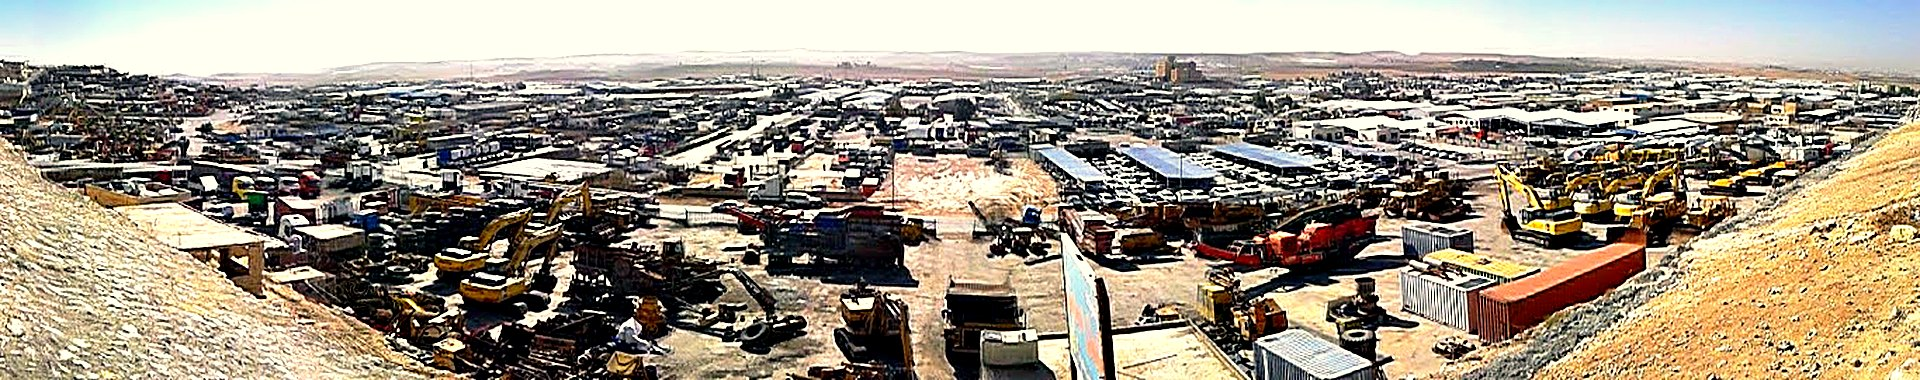
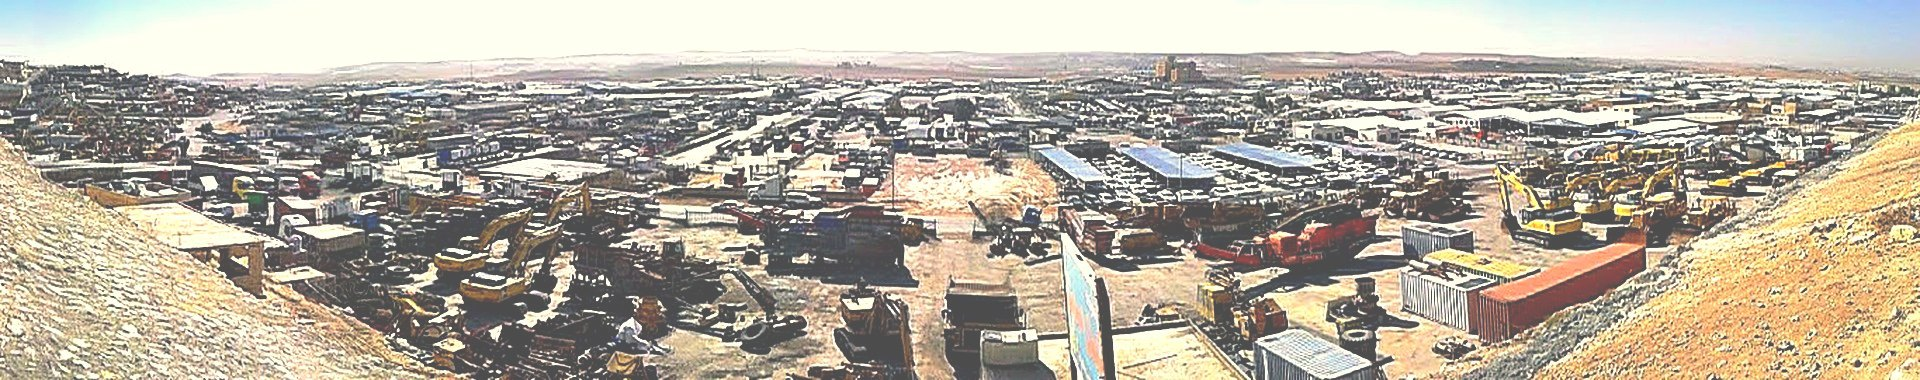
v45: shadow-lifted vivid hero photo + text-band overlay (bright cheerful, 7.8:1 title contrast)

diff --git a/public/css/styles.css b/public/css/styles.css
@@ -58,15 +58,17 @@ input,select,textarea{font-family:inherit;font-size:15px}
 .hero{background-color:#0d2140;background-image:url("../images/hero-bg.jpg");background-size:cover;background-position:center;background-repeat:no-repeat;color:#fff;position:relative;overflow:hidden}
 [dir="rtl"] .hero::after{content:"";position:absolute;inset:0;background:
   radial-gradient(620px 210px at 88% 0,rgba(255,255,255,.16),transparent),
-  linear-gradient(270deg, rgba(7,19,42,.80) 0%, rgba(10,32,70,.42) 44%, rgba(8,26,56,.32) 100%)}
+  linear-gradient(180deg, rgba(7,19,42,0) 0%, rgba(7,19,42,.28) 13%, rgba(7,19,42,.28) 74%, rgba(7,19,42,.12) 100%),
+  linear-gradient(270deg, rgba(7,19,42,.55) 0%, rgba(7,19,42,.28) 45%, rgba(7,19,42,.05) 100%)}
 [dir="ltr"] .hero::after{content:"";position:absolute;inset:0;background:
   radial-gradient(620px 210px at 12% 0,rgba(255,255,255,.16),transparent),
-  linear-gradient(90deg, rgba(7,19,42,.80) 0%, rgba(10,32,70,.42) 44%, rgba(8,26,56,.32) 100%)}
+  linear-gradient(180deg, rgba(7,19,42,0) 0%, rgba(7,19,42,.28) 13%, rgba(7,19,42,.28) 74%, rgba(7,19,42,.12) 100%),
+  linear-gradient(90deg, rgba(7,19,42,.55) 0%, rgba(7,19,42,.28) 45%, rgba(7,19,42,.05) 100%)}
 .hero h1,.hero p{text-shadow:0 2px 18px rgba(2,8,20,.65),0 1px 4px rgba(2,8,20,.5)}
 @media(max-width:720px){
   [dir="rtl"] .hero::after,[dir="ltr"] .hero::after{background:
     radial-gradient(480px 170px at 82% 0,rgba(255,255,255,.13),transparent),
-    linear-gradient(180deg, rgba(7,19,42,.48) 0%, rgba(9,28,62,.70) 55%, rgba(10,32,70,.84) 100%)}
+    linear-gradient(180deg, rgba(7,19,42,.44) 0%, rgba(9,28,62,.66) 55%, rgba(10,32,70,.82) 100%)}
   .hero h1,.hero p{text-shadow:0 2px 16px rgba(2,8,20,.7),0 1px 3px rgba(2,8,20,.55)}
 }
 .hero .wrap{position:relative;z-index:1;padding:56px 16px}

diff --git a/public/sw.js b/public/sw.js
@@ -5,7 +5,7 @@
    - الملفات الثابتة (css/js/icons): stale-while-revalidate
    - الـAPI والرفعات: شبكة فقط (دائماً أحدث البيانات)
    ========================================================================= */
-const CACHE = "zfz-v44";
+const CACHE = "zfz-v45";
 const SHELL = [
   "/",
   "/index.html",
